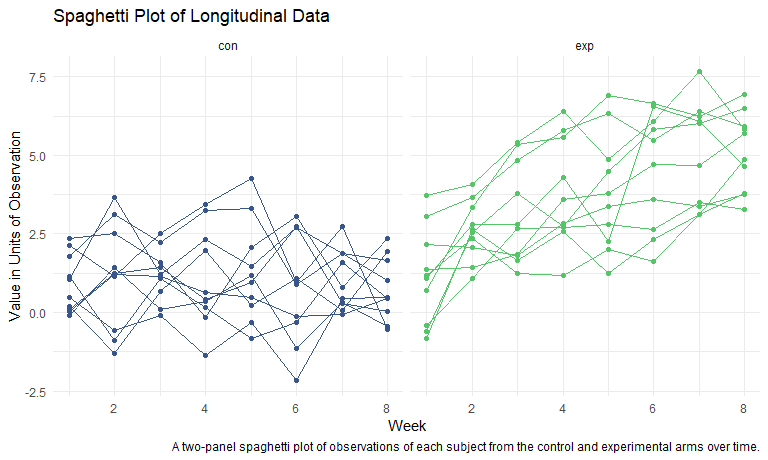
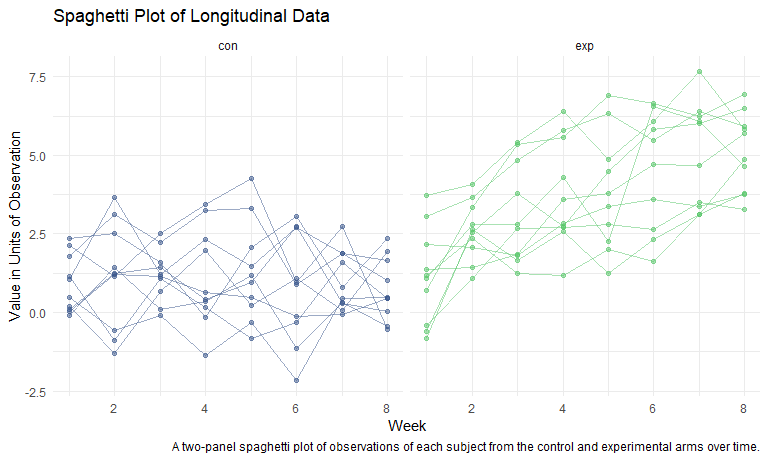
Commit fixing plot for question 3 and adding descriptions, answering last question

diff --git a/p8105_hw5_sn2863.md b/p8105_hw5_sn2863.md
@@ -128,9 +128,9 @@ tidy_df %>%
   facet_grid(~arm)+
   theme(legend.position = "none") +
   scale_color_manual(values=c("#39568CFF", "#55C667FF")) +
-  geom_point(aes(color=arm)) +
-  geom_line(aes(color=arm)) +
-    labs(
+  geom_point(aes(color=arm), alpha = 0.5) +
+  geom_line(aes(color=arm), alpha = 0.5) +
+  labs(
     title = "Spaghetti Plot of Longitudinal Data",
     x = "Week",
     y = "Value in Units of Observation",
@@ -186,12 +186,12 @@ decision_df <-
     decision = case_when(
       p.value >= 0.05 ~ "fail to reject",
       p.value < 0.05 ~ "reject")
-  ) %>%
-  filter(decision == "reject") %>%
-  group_by(true_mu) %>%
-  summarize(power = n()/5000)
+  )
 
 decision_df %>%
+  filter(decision == "reject") %>%
+  group_by(true_mu) %>%
+  summarize(power = n()/5000) %>%
   ggplot(aes(x = true_mu, y = power)) +
   geom_line(color = "#39568CFF", size = 1, alpha=0.5) +
   labs(
@@ -206,10 +206,54 @@ decision_df %>%
 
 The association between effect size and power is that they are directly
 related – i.e., the greater the effect size, the greater the power of
-out study. This is because if we have a true value that is further away
+our study. This is because if we have a true value that is further away
 from our null hypothesis value, then we would be more likely to reject
 the null. Hence, power increases, as seen in the plot.
 
-**Plots showing he average estimate vs the true value of mu, and the
-average estimate of mu only in samples for which the null was rejected
-vs the true value of mu.**
+**Plot showing the average estimate of all samples and the average
+estimate of mu only in samples for which the null was rejected vs the
+true value of mu.**
+
+``` r
+estimate_df <-
+  decision_df %>%
+  group_by(true_mu) %>%
+  summarize(avg_estimate = mean(estimate)) %>%
+  mutate(estimate_type = "all samples")
+
+estimate_reject_df <-
+  decision_df %>%
+  filter(decision == "reject") %>%
+  group_by(true_mu) %>%
+  summarize(avg_estimate = mean(estimate)) %>%
+  mutate(estimate_type = "rejected samples") 
+
+bind_rows(estimate_df, estimate_reject_df) %>%
+  ggplot(aes(x = true_mu, y = avg_estimate)) +
+  scale_color_manual(values=c("#39568CFF", "#55C667FF")) +
+  geom_line(aes(color = estimate_type))+
+  labs(
+    title = "Average Estimates of the Mean From Simulation vs True Mean",
+    x = "True Mean",
+    y = "Average Mean Estimate",
+    caption = "Data from a simulation of 5000 values from a normal distribution with n = 30, sd = 5, and true mu varying from 0 to 6."
+    ) 
+```
+
+<img src="p8105_hw5_sn2863_files/figure-gfm/unnamed-chunk-8-1.png" width="90%" />
+
+Clarifying the legend: the blue line represents the average estimates of
+mu in all samples. The green line represents the average estimates of mu
+in samples, but only for which the null hypothesis was rejected.
+
+The sample average of our estimated mean across tests for which the null
+is rejected is only approximately equal as we get to higher values of
+our true mu’s. This is because when we simulated samples with higher
+true means, we have a larger detectable effect size, which would allow
+us to more correctly reject the null hypothesis. This again, has to do
+with statistical power.
+
+In the same vein, we see that for the lower values of true mean, 1 and
+2, there is quite a bit of a gap between the average estimates from our
+sample versus from the samples only when the null hypothesis was
+rejected.
